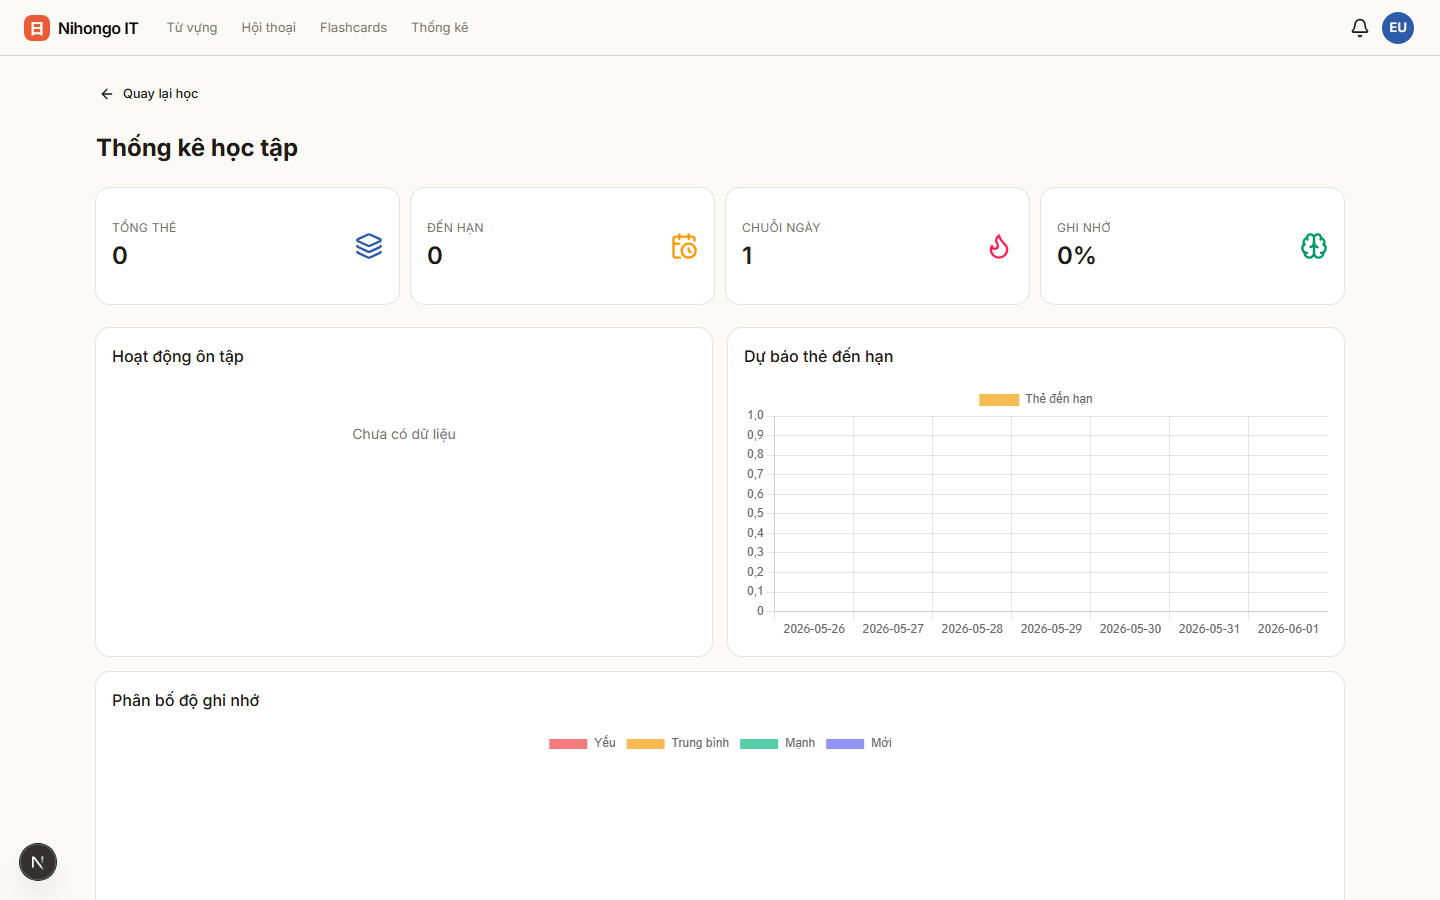
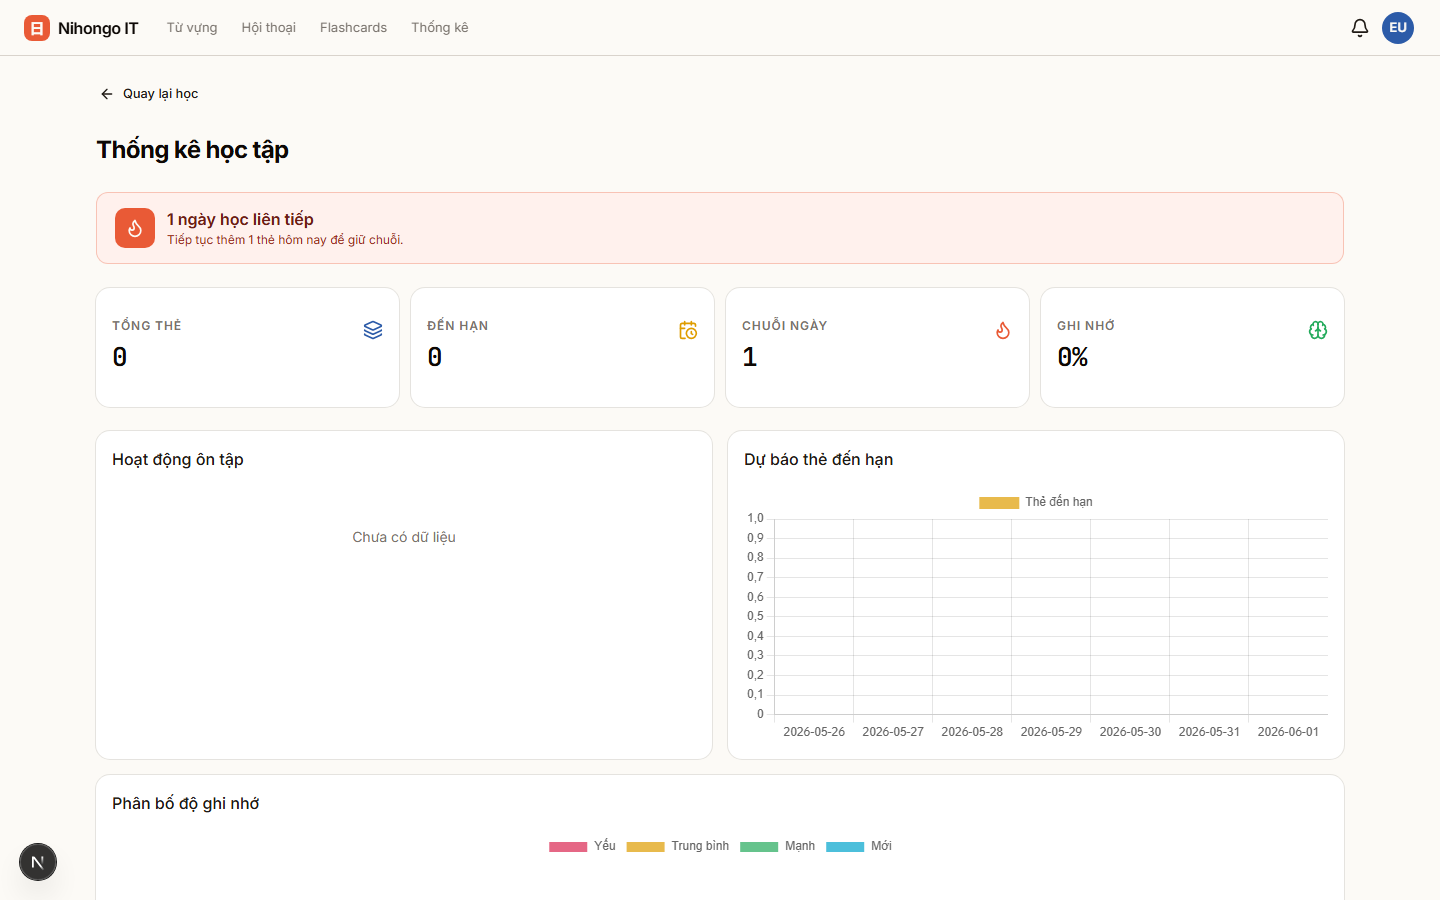
feat(fe): D-B2 — design system on Conversation + Statistics screens
- conversation/ConversationList — card meaning text uses min-height
  38px for grid alignment, JLPT badge uses the level chroma class
  (.jlpt-n5..n1) instead of stock secondary, MessageSquare icon in
  ai-iro, unit badge tightened to 22px chip height.

- flashcards/stats/StatsView — adds the streak banner from the UI
  kit (vermillion gradient card with flame icon + copy "Tiếp tục
  thêm 1 thẻ hôm nay để giữ chuỗi") when streak > 0; stat cards
  rebuilt with the `.eyebrow` uppercase label + `.mono` 26px
  tabular-num number + tone-coded icon (Tổng thẻ → indigo, Đến
  hạn → amber, Chuỗi → vermillion, Ghi nhớ → emerald); chart palette
  rewritten to pull from the JLPT chromas instead of stock blue/red
  so colour meaning is consistent with badges everywhere else.

- globals.css — adds `.mono` utility (font-mono + tabular-nums).

Full E2E: 48 passed / 2 skipped.

Re-captured authenticated screenshots into
docs/mockups/02-screens-migration/{conversation, statistics, …}.

diff --git a/frontend-user/src/app/(app)/flashcards/stats/StatsView.tsx b/frontend-user/src/app/(app)/flashcards/stats/StatsView.tsx
@@ -77,27 +77,43 @@ export function StatsView() {
   }
 
   const summary = stats.summary ?? {}
+  const streak = summary.currentStreak ?? 0
   const summaryCards = [
-    { label: 'Tổng thẻ', value: summary.totalCards ?? 0, Icon: Layers, tone: 'text-primary' },
+    {
+      label: 'Tổng thẻ',
+      value: summary.totalCards ?? 0,
+      Icon: Layers,
+      tone: 'text-[color:var(--ai-500)]',
+    },
     {
       label: 'Đến hạn',
       value: summary.dueCardsNow ?? 0,
       Icon: CalendarClock,
-      tone: 'text-amber-500',
+      tone: 'text-[color:var(--jlpt-n3)]',
     },
     {
       label: 'Chuỗi ngày',
-      value: summary.currentStreak ?? 0,
+      value: streak,
       Icon: Flame,
-      tone: 'text-rose-500',
+      tone: 'text-[color:var(--shu-500)]',
     },
     {
       label: 'Ghi nhớ',
       value: fmtPercent(summary.overallRetentionRate),
       Icon: Brain,
-      tone: 'text-emerald-600',
+      tone: 'text-[color:var(--jlpt-n5)]',
     },
   ]
+
+  // Chart palette — pulls from --chart-1..5 (JLPT chromas) so colour meaning
+  // is consistent with badges and rating buttons.
+  const colorPrimary = 'oklch(0.48 0.135 260)' // --ai-500
+  const colorPrimaryFill = 'oklch(0.48 0.135 260 / 0.18)'
+  const colorWarn = 'oklch(0.74 0.16 80 / 0.7)' // --jlpt-n3
+  const colorN1 = 'oklch(0.58 0.21 15 / 0.7)'
+  const colorN3 = 'oklch(0.74 0.16 80 / 0.7)'
+  const colorN5 = 'oklch(0.65 0.16 152 / 0.7)'
+  const colorN4 = 'oklch(0.66 0.14 220 / 0.7)'
 
   // ---- Daily reviews (line chart) ----
   const dailyReviews = sortedEntries(stats.dailyReviews)
@@ -107,8 +123,8 @@ export function StatsView() {
       {
         label: 'Lượt ôn',
         data: dailyReviews.map(([, v]) => v),
-        borderColor: 'rgb(59, 130, 246)',
-        backgroundColor: 'rgba(59, 130, 246, 0.2)',
+        borderColor: colorPrimary,
+        backgroundColor: colorPrimaryFill,
         fill: true,
         tension: 0.3,
       },
@@ -123,7 +139,7 @@ export function StatsView() {
       {
         label: 'Thẻ đến hạn',
         data: cardsDue.map(([, v]) => v),
-        backgroundColor: 'rgba(245, 158, 11, 0.7)',
+        backgroundColor: colorWarn,
       },
     ],
   }
@@ -135,12 +151,7 @@ export function StatsView() {
     datasets: [
       {
         data: [mem.weak ?? 0, mem.medium ?? 0, mem.strong ?? 0, mem.new ?? 0],
-        backgroundColor: [
-          'rgba(239, 68, 68, 0.7)',
-          'rgba(245, 158, 11, 0.7)',
-          'rgba(16, 185, 129, 0.7)',
-          'rgba(99, 102, 241, 0.7)',
-        ],
+        backgroundColor: [colorN1, colorN3, colorN5, colorN4],
       },
     ],
   }
@@ -156,17 +167,37 @@ export function StatsView() {
         </Link>
       </Button>
 
-      <h1 className="text-2xl font-bold">Thống kê học tập</h1>
+      <h1 className="text-[24px] font-bold tracking-tight text-[color:var(--washi-900)]">
+        Thống kê học tập
+      </h1>
+
+      {streak > 0 && (
+        <div className="flex items-center gap-3 rounded-[12px] border border-[color:oklch(from_var(--shu-500)_l_c_h_/_30%)] bg-[color:var(--shu-50)] px-[18px] py-[14px]">
+          <div className="bg-accent text-accent-foreground inline-flex h-10 w-10 items-center justify-center rounded-[10px]">
+            <Flame className="size-5" />
+          </div>
+          <div>
+            <div className="text-[16px] font-semibold text-[color:var(--shu-800)]">
+              {streak} ngày học liên tiếp
+            </div>
+            <div className="text-[12px] text-[color:var(--shu-700)]">
+              Tiếp tục thêm 1 thẻ hôm nay để giữ chuỗi.
+            </div>
+          </div>
+        </div>
+      )}
 
       <div className="grid gap-3 sm:grid-cols-2 lg:grid-cols-4">
         {summaryCards.map(({ label, value, Icon, tone }) => (
           <Card key={label}>
-            <CardContent className="flex items-center justify-between p-4">
+            <CardContent className="flex items-start justify-between p-4">
               <div>
-                <p className="text-muted-foreground text-xs uppercase tracking-wide">{label}</p>
-                <p className="mt-1 text-2xl font-semibold">{value}</p>
+                <p className="eyebrow">{label}</p>
+                <p className="mono mt-1.5 text-[26px] font-semibold tracking-tight text-[color:var(--washi-900)]">
+                  {value}
+                </p>
               </div>
-              <Icon className={`size-7 ${tone}`} />
+              <Icon className={`size-5 ${tone}`} />
             </CardContent>
           </Card>
         ))}

diff --git a/frontend-user/src/app/(app)/conversation/ConversationList.tsx b/frontend-user/src/app/(app)/conversation/ConversationList.tsx
@@ -132,33 +132,59 @@ export function ConversationList() {
         <p className="text-muted-foreground py-10 text-center">Không tìm thấy hội thoại phù hợp.</p>
       ) : (
         <div className="grid gap-3 sm:grid-cols-2 lg:grid-cols-3">
-          {items.map((c) => (
-            <Link
-              key={c.conversationId}
-              href={`/conversation/${c.conversationId}/practice`}
-              className="block"
-            >
-              <Card className="hover:border-primary/50 h-full transition-colors">
-                <CardContent className="p-4">
-                  <div className="flex items-start gap-2">
-                    <MessageSquare className="text-primary mt-0.5 size-4 shrink-0" />
-                    <h3 className="line-clamp-2 flex-1 font-semibold">{c.title}</h3>
-                  </div>
-                  {c.description && (
-                    <p className="text-muted-foreground mt-2 line-clamp-2 text-sm">
-                      {c.description}
-                    </p>
-                  )}
-                  <div className="mt-3 flex items-center gap-2">
-                    {c.jlptLevel && <Badge variant="secondary">{c.jlptLevel}</Badge>}
-                    {typeof c.unit === 'number' && (
-                      <Badge variant="outline">Bài {c.unit}</Badge>
+          {items.map((c) => {
+            const jlptClass = c.jlptLevel
+              ? c.jlptLevel === 'N5'
+                ? 'jlpt-n5'
+                : c.jlptLevel === 'N4'
+                  ? 'jlpt-n4'
+                  : c.jlptLevel === 'N3'
+                    ? 'jlpt-n3'
+                    : c.jlptLevel === 'N2'
+                      ? 'jlpt-n2'
+                      : 'jlpt-n1'
+              : null
+            return (
+              <Link
+                key={c.conversationId}
+                href={`/conversation/${c.conversationId}/practice`}
+                className="block"
+              >
+                <Card className="hover:border-primary/50 h-full transition-colors">
+                  <CardContent className="p-4">
+                    <div className="flex items-start gap-2">
+                      <MessageSquare className="mt-0.5 size-4 shrink-0 text-[color:var(--ai-500)]" />
+                      <h3 className="line-clamp-2 flex-1 text-[14px] font-semibold leading-snug text-[color:var(--washi-900)]">
+                        {c.title}
+                      </h3>
+                    </div>
+                    {c.description && (
+                      <p className="mt-2 line-clamp-2 min-h-[38px] text-[13px] leading-snug text-[color:var(--washi-800)]">
+                        {c.description}
+                      </p>
                     )}
-                  </div>
-                </CardContent>
-              </Card>
-            </Link>
-          ))}
+                    <div className="mt-3 flex items-center gap-1.5">
+                      {c.jlptLevel && jlptClass && (
+                        <span
+                          className={`${jlptClass} inline-flex h-[22px] items-center rounded-full px-2.5 text-[11px] font-semibold`}
+                        >
+                          {c.jlptLevel}
+                        </span>
+                      )}
+                      {typeof c.unit === 'number' && (
+                        <Badge
+                          variant="outline"
+                          className="h-[22px] px-2.5 text-[11px] font-semibold"
+                        >
+                          Bài {c.unit}
+                        </Badge>
+                      )}
+                    </div>
+                  </CardContent>
+                </Card>
+              </Link>
+            )
+          })}
         </div>
       )}
 

diff --git a/frontend-admin/src/app/globals.css b/frontend-admin/src/app/globals.css
@@ -271,3 +271,9 @@
   letter-spacing: 0.08em;
   color: var(--washi-500);
 }
+
+/* Monospace — used for tabular figures (counters, dates, stat values) */
+.mono {
+  font-family: var(--font-mono);
+  font-variant-numeric: tabular-nums;
+}

diff --git a/frontend-user/src/app/globals.css b/frontend-user/src/app/globals.css
@@ -271,3 +271,9 @@
   letter-spacing: 0.08em;
   color: var(--washi-500);
 }
+
+/* Monospace — used for tabular figures (counters, dates, stat values) */
+.mono {
+  font-family: var(--font-mono);
+  font-variant-numeric: tabular-nums;
+}
